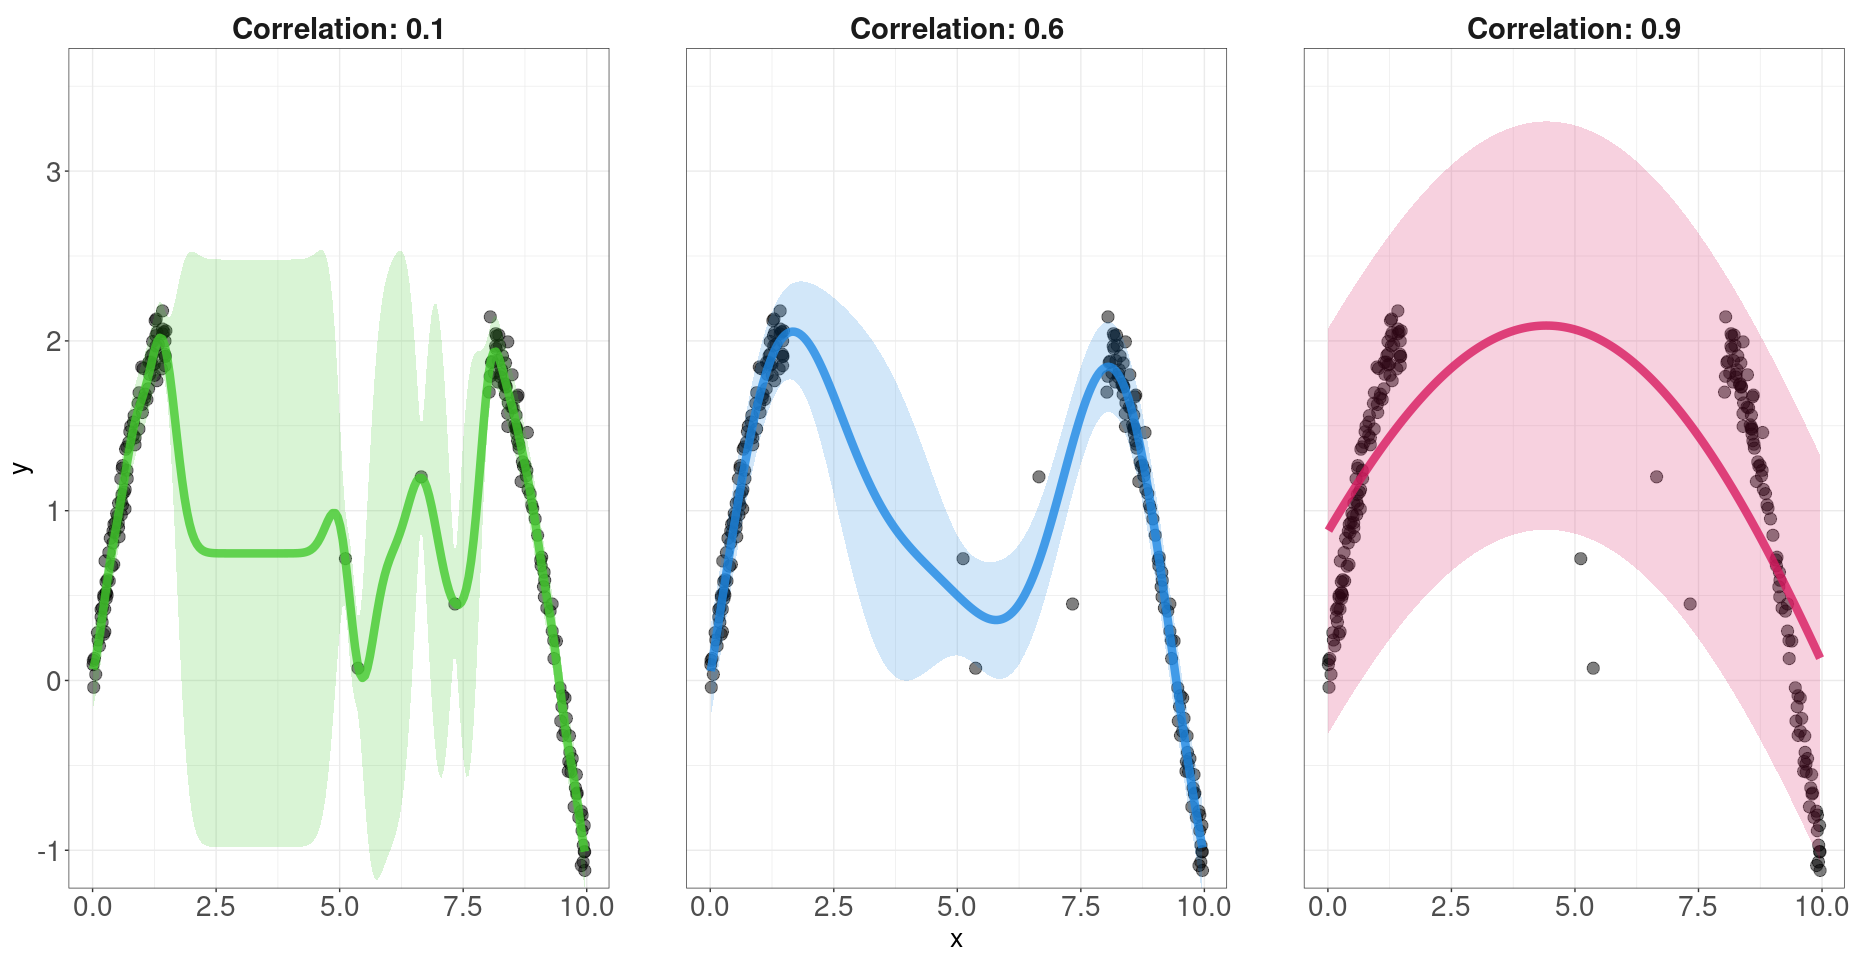
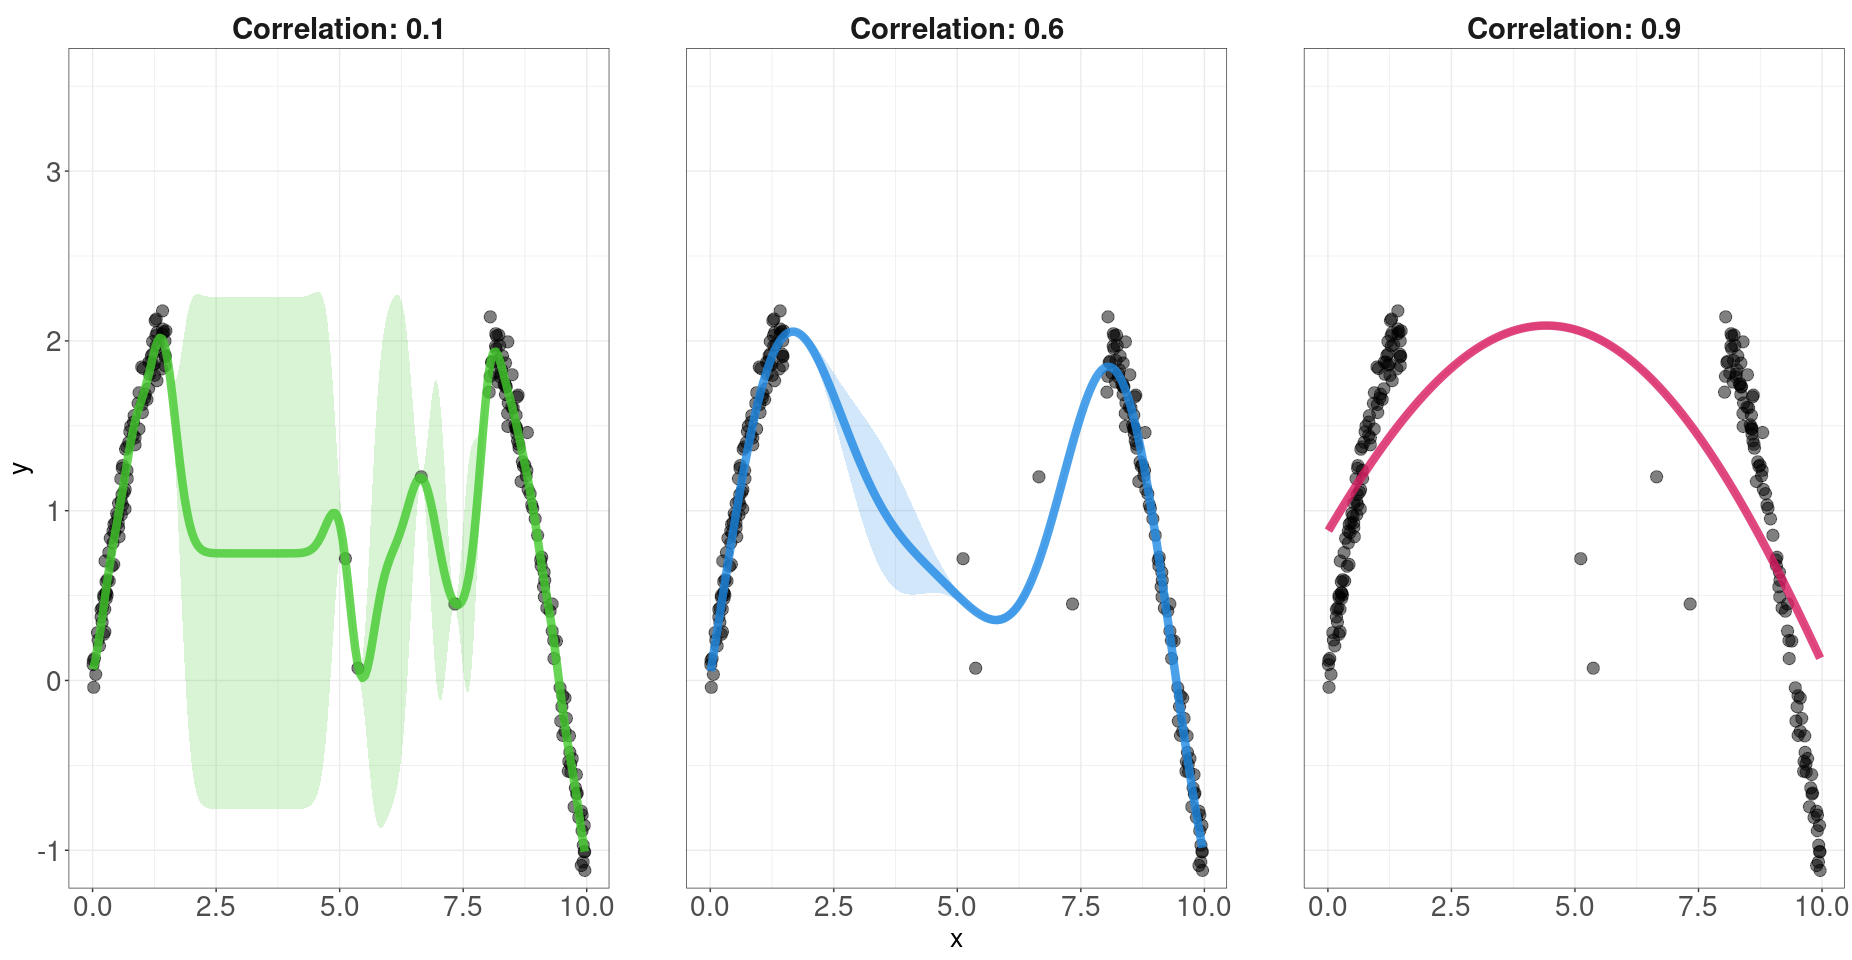
gp

Changed region(s): [[0.7079, 0.125, 0.9849, 0.875], [0.0616, 0.25, 0.277, 0.9062], [0.4001, 0.2812, 0.6156, 0.7188]]

diff --git a/notebooks/Gaussian_Process_Kernels_Notebook.md b/notebooks/Gaussian_Process_Kernels_Notebook.md
@@ -102,20 +102,20 @@ x_grid <- seq(min(x_sparse), max(x_sparse), length.out = 200)
 X_new_mat <- matrix(x_grid, ncol = 1)
 
 # Predictions for each model
-pred1 <- predict(gp1, XX = X_new_mat, se.fit = TRUE)
-pred2 <- predict(gp2, XX = X_new_mat, se.fit = TRUE)
-pred3 <- predict(gp3, XX = X_new_mat, se.fit = TRUE)
+pred1 <- gp1$pred(XX = X_new_mat, se = TRUE,mean_dist = T)
+pred2 <- gp2$pred(XX = X_new_mat, se = TRUE,mean_dist = T)
+pred3 <- gp3$pred(XX = X_new_mat, se = TRUE,mean_dist = T)
 
 # Combine the predictions into a single dataframe
 predictions_combined <- data.frame(
   x_grid = rep(x_grid, 3),
   pred_mean = c(pred1$mean, pred2$mean, pred3$mean),
-  lower_bound = c(pred1$mean - 1.96 * sqrt(pred1$s2), 
-                  pred2$mean - 1.96 * sqrt(pred2$s2), 
-                  pred3$mean - 1.96 * sqrt(pred3$s2)),
-  upper_bound = c(pred1$mean + 1.96 * sqrt(pred1$s2), 
-                  pred2$mean + 1.96 * sqrt(pred2$s2), 
-                  pred3$mean + 1.96 * sqrt(pred3$s2)),
+  lower_bound = c(pred1$mean - 1.96 * (pred1$s2), 
+                  pred2$mean - 1.96 * (pred2$s2), 
+                  pred3$mean - 1.96 * (pred3$s2)),
+  upper_bound = c(pred1$mean + 1.96 * (pred1$s2), 
+                  pred2$mean + 1.96 * (pred2$s2), 
+                  pred3$mean + 1.96 * (pred3$s2)),
   model = factor(rep(c("Correlation: 0.1", 
                                            "Correlation: 0.6", 
                                            "Correlation: 0.9"), each = length(x_grid)))

diff --git a/notebooks/Gaussian_Process_Notebook.md b/notebooks/Gaussian_Process_Notebook.md
@@ -2,6 +2,16 @@ Gaussian Process
 ================
 Rafael Izbicki
 
+This notebook is part of the book “Machine Learning Beyond Point
+Predictions: Uncertainty Quantification”, by Rafael Izbicki.
+
+# Introduction
+
+This notebook demonstrates how Gaussian processes (GP) can be used to
+model data and quantify uncertainty. Using simulated data, it fits a GP
+model and visualizes the results, highlighting both total and epistemic
+uncertainty through credible/prediction intervals.
+
 ## Load Necessary Packages
 
 ``` r
@@ -50,7 +60,7 @@ predictions <- predict(gp, XX = X_new_mat, se.fit = TRUE)
 
 # Extract means and standard deviations for prediction intervals
 means <- predictions$mean
-std_dev <- sqrt(predictions$se)
+std_dev <- predictions$se
 lower_bound <- means - 1.96 * std_dev
 upper_bound <- means + 1.96 * std_dev
 ```
@@ -74,7 +84,7 @@ ggplot() +
 
 ![](Gaussian_Process_Notebook_files/figure-gfm/plot-results-1.png)<!-- -->
 
-## Epstemic Uncertainty
+## Epistemic Uncertainty
 
 ``` r
 # Alternative predictions with mean distance
@@ -82,7 +92,7 @@ predictions <- gp$pred(XX = X_new_mat, se = TRUE, mean_dist = TRUE)
 
 # Extract means and standard deviations
 means <- predictions$mean
-std_dev <- sqrt(predictions$s2)
+std_dev <- predictions$se
 lower_bound <- means - 1.96 * std_dev
 upper_bound <- means + 1.96 * std_dev
 ```
